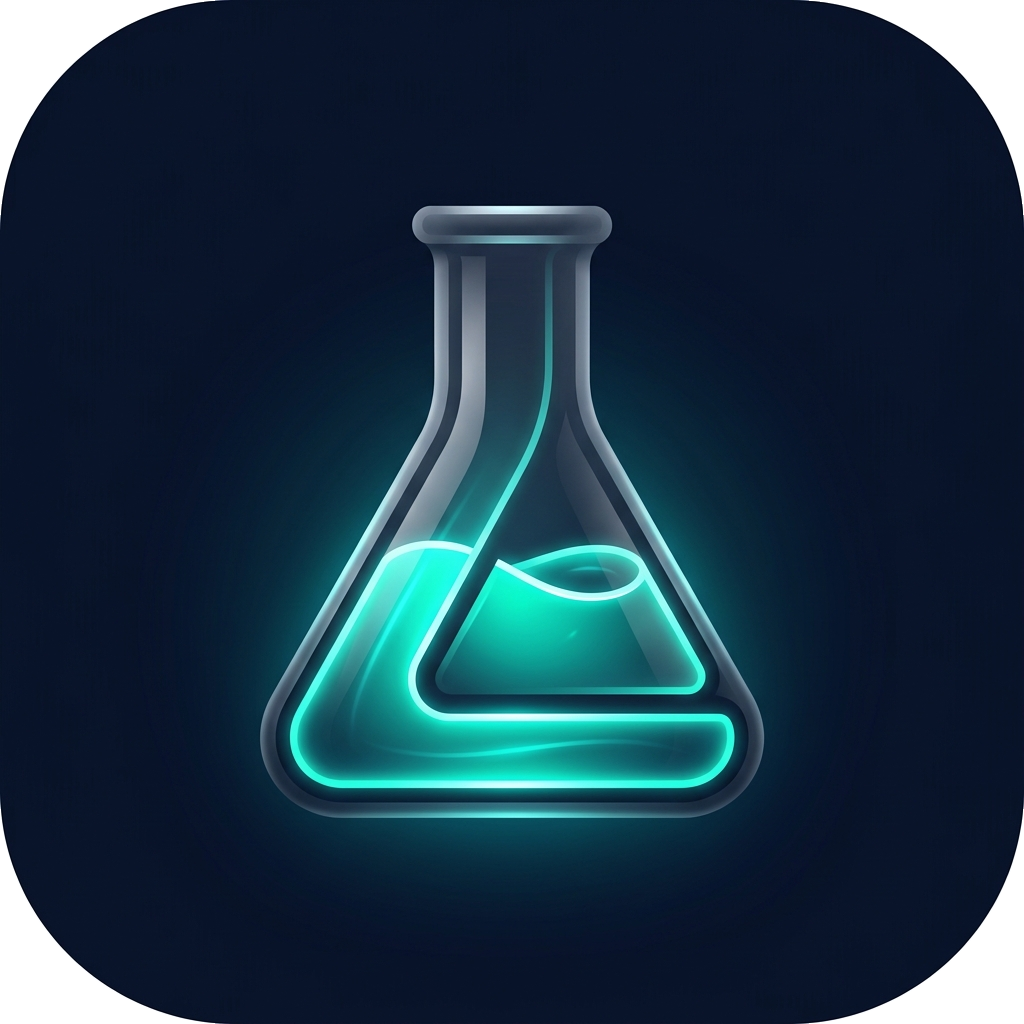
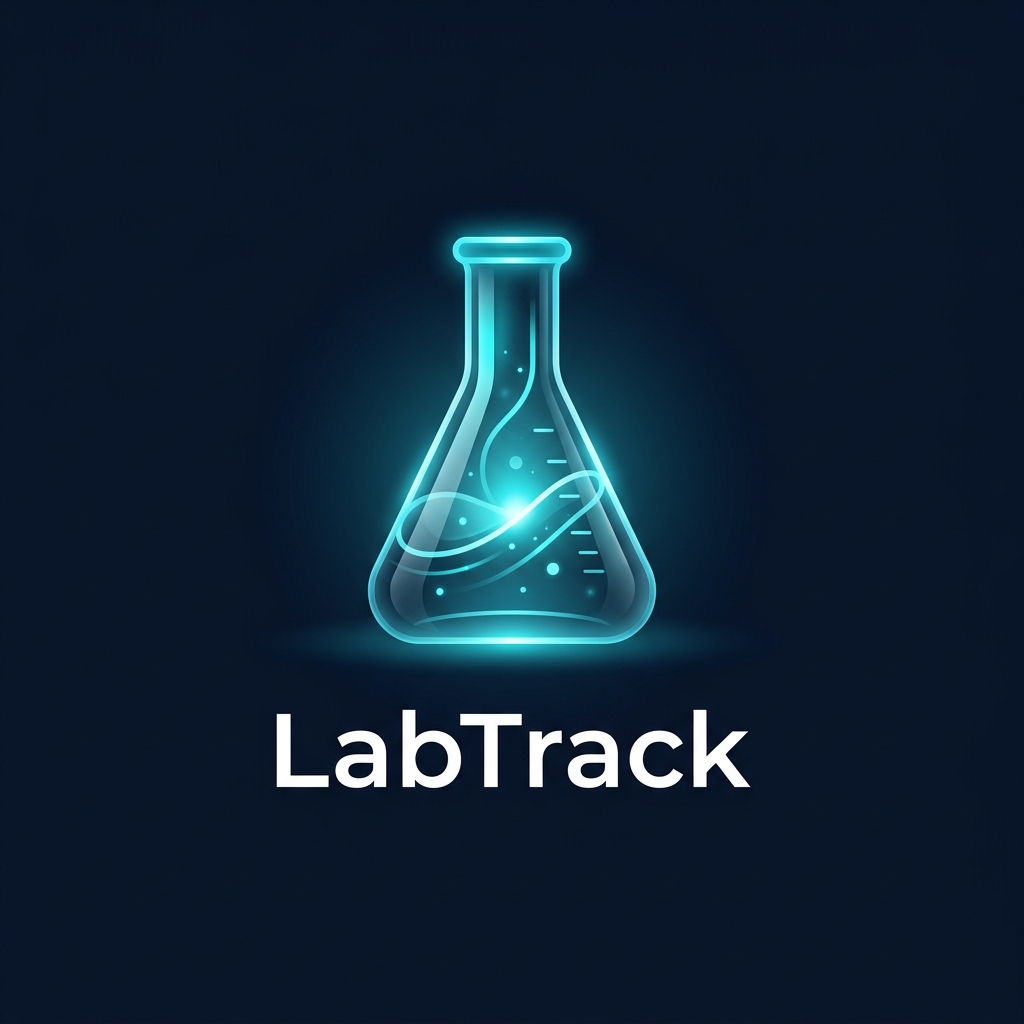
fix(mobile): usar modal nativo para o calendario no ios

diff --git a/app-mobile/src/paginas/FormProduto/index.js b/app-mobile/src/paginas/FormProduto/index.js
@@ -11,7 +11,7 @@ import {
 } from 'react-native';
 import * as ImagePicker from 'expo-image-picker';
 import { Ionicons } from '@expo/vector-icons';
-import DateTimePicker from '@react-native-community/datetimepicker';
+import DateTimePickerModal from 'react-native-modal-datetime-picker';
 
 import api from '../../servicos/api';
 import styles from './style';
@@ -77,8 +77,12 @@ export default function FormProduto({ navigation, route }) {
   const [salvando, setSalvando] = useState(false);
   const [showDatePicker, setShowDatePicker] = useState(false);
 
-  const onChangeDate = (event, selectedDate) => {
+  const hideDatePicker = () => {
     setShowDatePicker(false);
+  };
+
+  const handleConfirm = (selectedDate) => {
+    hideDatePicker();
     if (selectedDate) {
       const iso = selectedDate.toISOString().slice(0, 10);
       setDataEntrada(formatarDataParaBR(iso));
@@ -224,14 +228,15 @@ export default function FormProduto({ navigation, route }) {
             <Ionicons name="calendar-outline" size={24} color="#00B4D8" />
           </TouchableOpacity>
         </View>
-        {showDatePicker && (
-          <DateTimePicker
-            value={parseDataBR(dataEntrada)}
-            mode="date"
-            display="default"
-            onChange={onChangeDate}
-          />
-        )}
+        <DateTimePickerModal
+          isVisible={showDatePicker}
+          mode="date"
+          date={parseDataBR(dataEntrada)}
+          onConfirm={handleConfirm}
+          onCancel={hideDatePicker}
+          confirmTextIOS="Confirmar"
+          cancelTextIOS="Cancelar"
+        />
       </View>
 
       <Text style={styles.sectionTitle}>Status e imagem</Text>